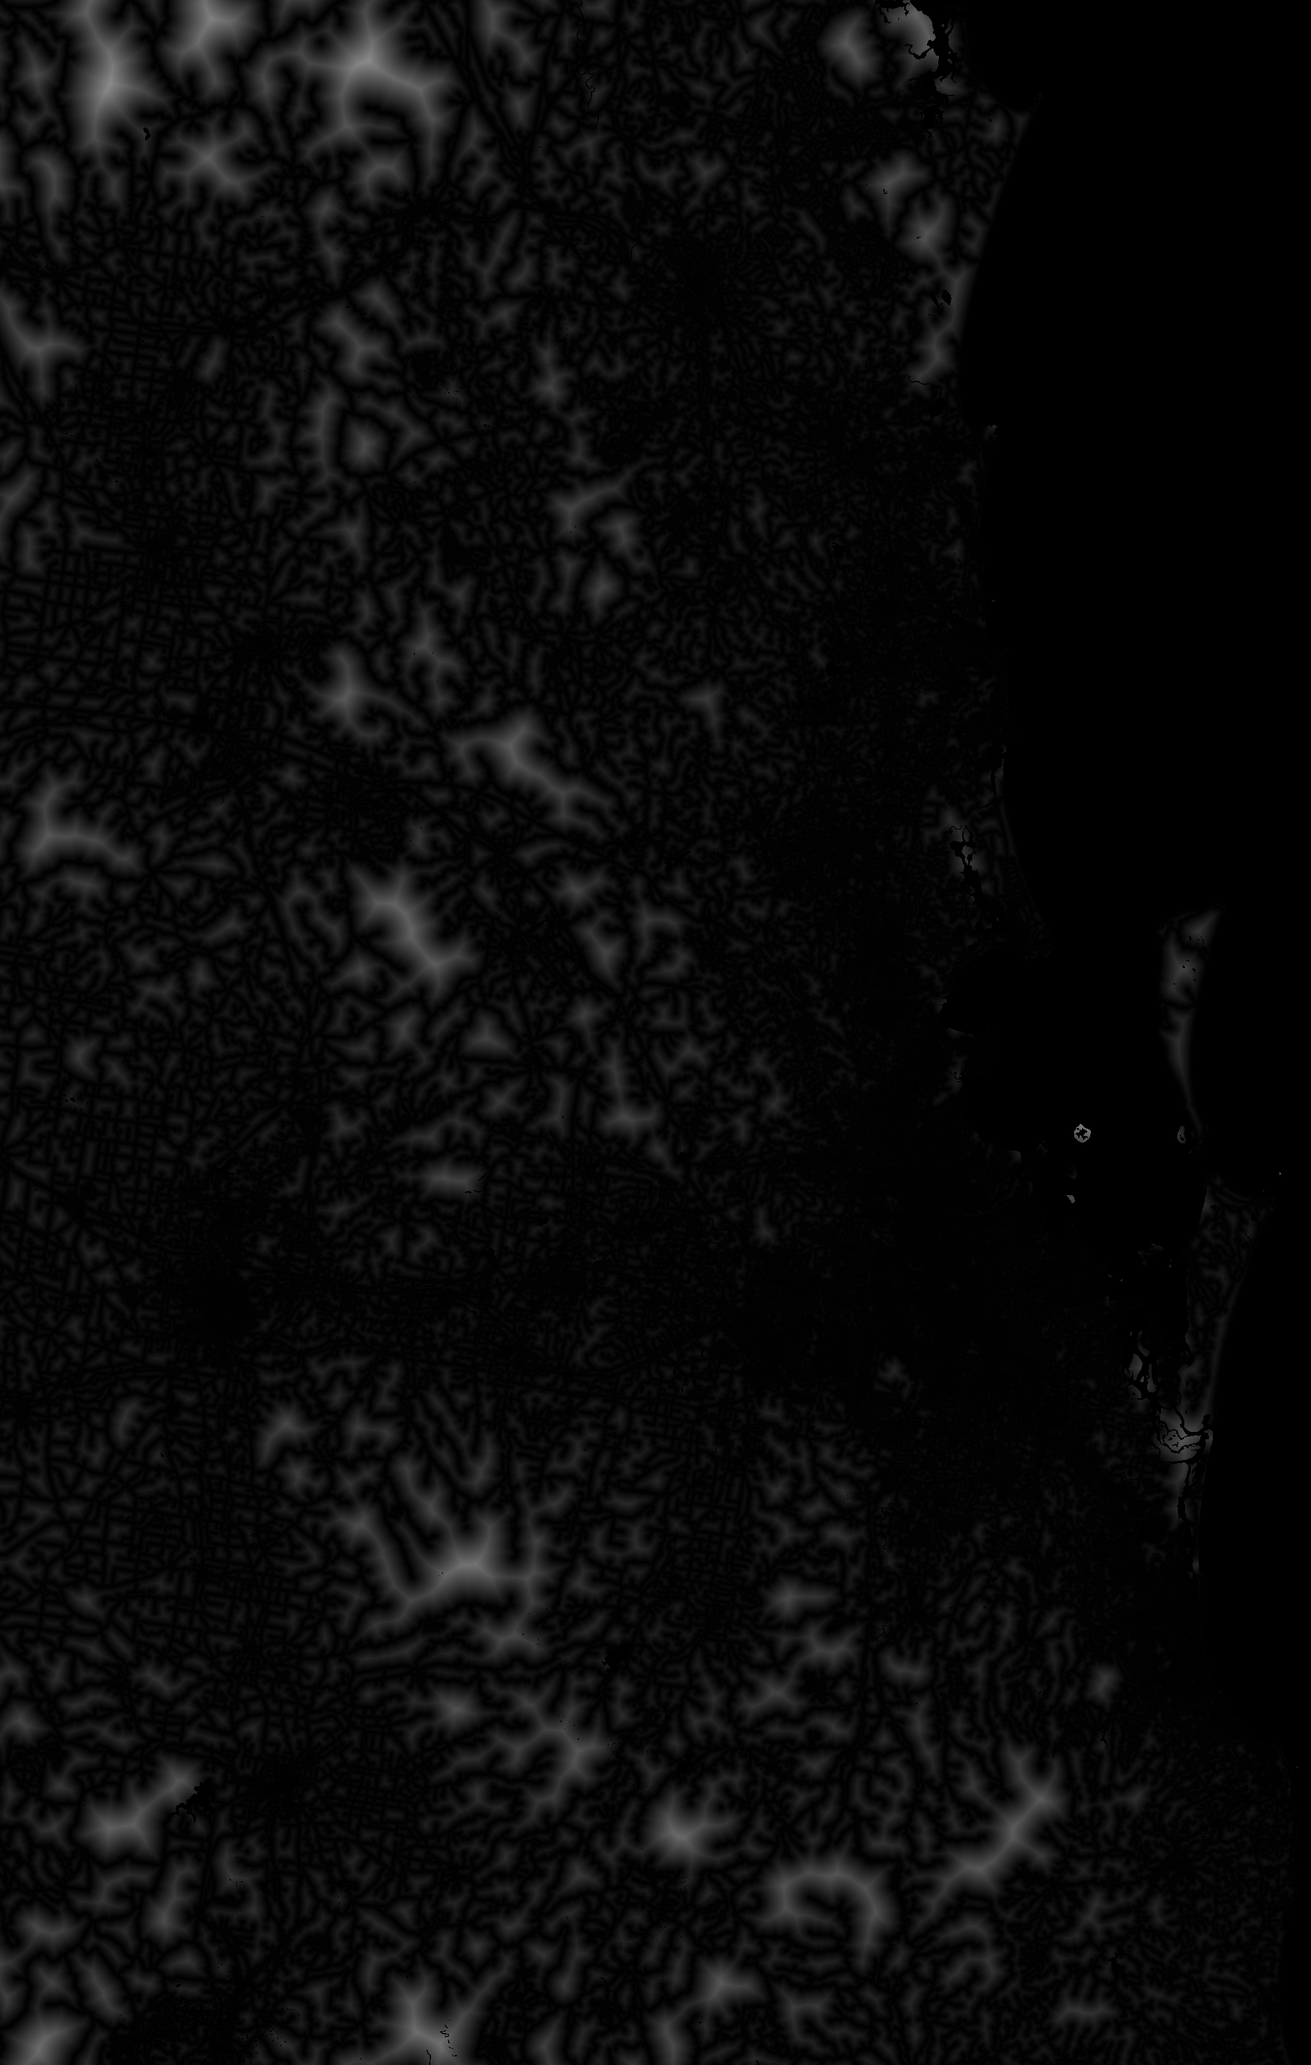
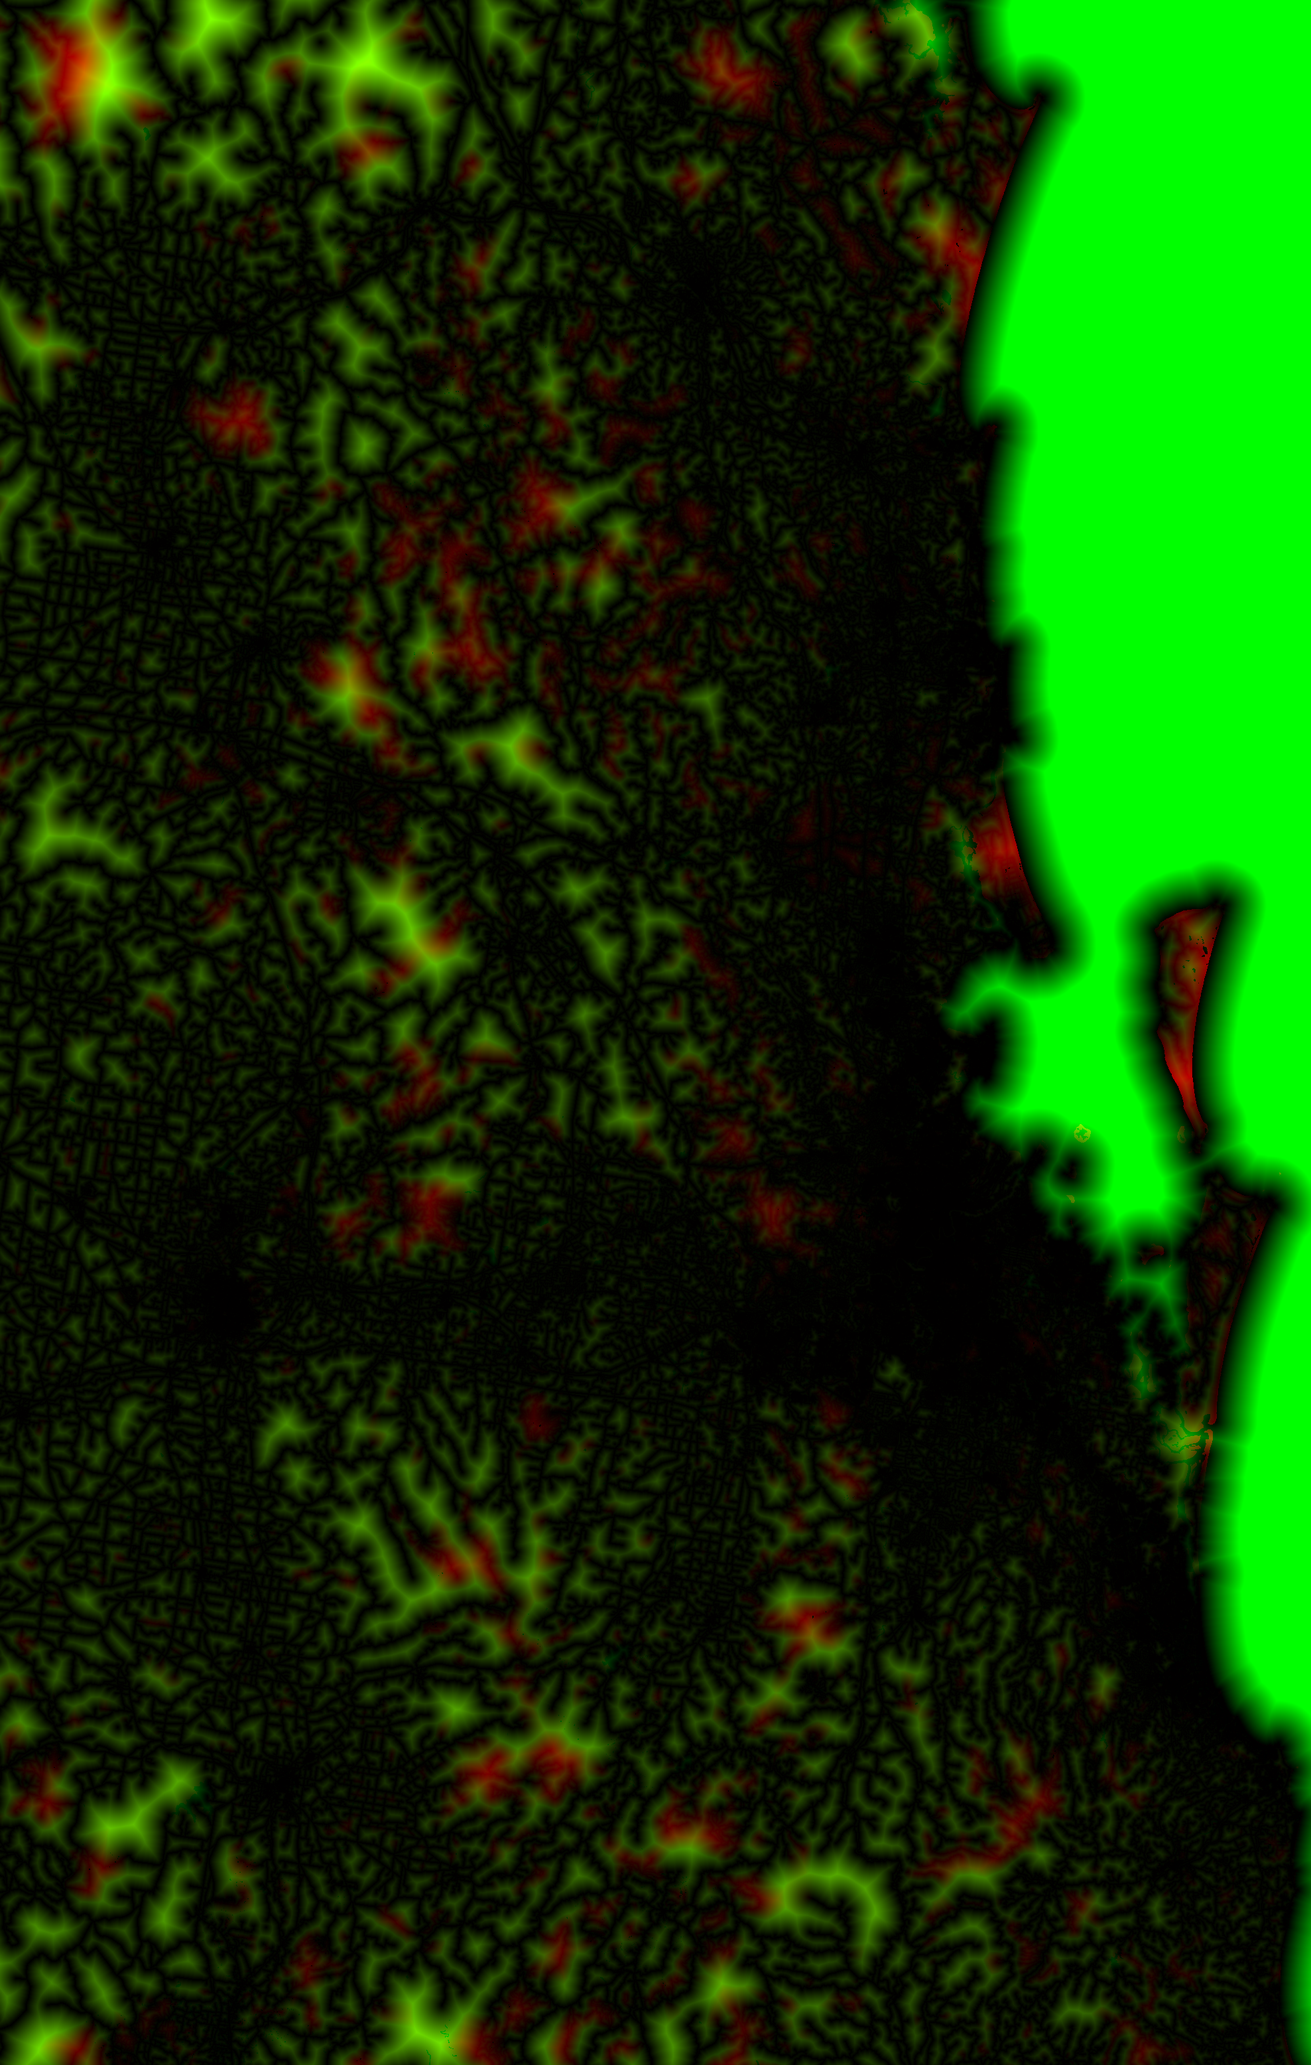
Answers you can actually walk to; shading is now opt-in
The data model was wrong. Tracks and footpaths counted as civilisation, so the winner
was maximising distance from the very things that get you in - a pin in trackless
scrub. Split into two networks: CIVILISATION (roads, buildings, rail, power, runways)
is what the distance is measured to, ACCESS adds tracks and paths and is how you get
there. The image now carries both fields, R and G, and a point only qualifies if it is
within 300 m of a way in.

Better answers as a result: the SEQ maximum went from 7.0 km to 10.5 km, and an hour
from Brisbane from 3.2 km to 4.4 km, because being far from a fire trail is no longer
something the search is trying to achieve.

Also: the shading is OFF by default and built lazily when first asked for, since it is
a whole extra image recomposited on every frame and most of the time you want to read
the map. Google Maps directions to the drop-off, and to the spot itself.

diff --git a/docs/app.js b/docs/app.js
@@ -8,6 +8,12 @@
 const DATA = "data/";
 const FLOOR = 10;   // in step_m units: draw nothing closer than 500 m to something
 
+// How far you are willing to leave a track behind. This is the constraint that stops
+// the answer being a pin in trackless forest: the point has to be within this of a
+// road, fire trail or walking path, even though the DISTANCE being maximised ignores
+// tracks entirely. Without it the winner is wherever the scrub is thickest.
+const MAX_BUSH_M = 300;
+
 // Average progress, not top speed - a car does not hold 100 km/h on the way out of
 // town. Marked as an estimate in the UI because it IS one: the real version asks a
 // routing engine which roads exist and how fast they are.
@@ -21,7 +27,7 @@ const state = {
   mode: "car", mins: 60,
   origin: { lat: -27.4698, lon: 153.0251 }, originName: "Brisbane",
 };
-let meta, grid, map, layers = {};
+let meta, grid, reach, map, layers = {}, overlays = null, field = null;
 
 const $ = (s) => document.querySelector(s);
 const fmtKm = (m) => (m < 950 ? Math.round(m) + " m" : (m / 1000).toFixed(1) + " km");
@@ -49,9 +55,12 @@ async function load() {
   const ctx = c.getContext("2d", { willReadFrequently: true });
   ctx.drawImage(img, 0, 0);
   const rgba = ctx.getImageData(0, 0, meta.width, meta.height).data;
-  grid = new Uint8Array(meta.width * meta.height);
-  for (let i = 0; i < grid.length; i++) grid[i] = rgba[i * 4];  // greyscale: R only
-  return { map: overlayURL("map"), sat: overlayURL("sat") };
+  grid = new Uint8Array(meta.width * meta.height);   // R: metres to civilisation
+  reach = new Uint8Array(meta.width * meta.height);  // G: metres to a way in
+  for (let i = 0; i < grid.length; i++) {
+    grid[i] = rgba[i * 4];
+    reach[i] = rgba[i * 4 + 1];
+  }
 }
 
 /* Colour the field so the map shows WHERE the empty country is, not just one pin.
@@ -186,8 +195,10 @@ function solve() {
   let best = 0, bx = -1, by = -1;
   for (let y = y0; y <= y1; y++) {
     for (let x = x0; x <= x1; x++) {
-      const v = grid[y * meta.width + x];
+      const i = y * meta.width + x;
+      const v = grid[i];
       if (v <= best) continue;                      // cheapest test first
+      if (reach[i] * meta.reach_step_m > MAX_BUSH_M) continue;   // no trackless pins
       if (!land.seen[land.idx(x, y)]) continue;     // no boats
       const ll = toLL(x + 0.5, y + 0.5);
       const dx = (ll[1] - state.origin.lon) * mPerDegLon;
@@ -201,6 +212,7 @@ function solve() {
   const ll = toLL(bx + 0.5, by + 0.5);
   return {
     lat: ll[0], lon: ll[1], dist_m: best * meta.step_m,
+    offtrack_m: reach[by * meta.width + bx] * meta.reach_step_m,
     reachM: reachM, access: walkOut(bx, by),
   };
 }
@@ -258,9 +270,17 @@ function render() {
     "<li>" + m.verb.charAt(0).toUpperCase() + m.verb.slice(1) + " to <b>" +
       a.access.lat.toFixed(4) + ", " + a.access.lon.toFixed(4) +
       "</b>, the last built ground on the way.</li>" +
-    "<li>Then walk the final <b>" + fmtKm(a.dist_m) + "</b>.</li>" +
-    '<li><a target="_blank" rel="noopener" href="https://www.openstreetmap.org/#map=14/' +
-      a.lat.toFixed(4) + "/" + a.lon.toFixed(4) + '">See it on OpenStreetMap</a></li>' +
+    "<li>Then walk about <b>" + fmtKm(a.dist_m) + "</b> - tracks most of the way, " +
+      "the last <b>" + fmtKm(a.offtrack_m) + "</b> off them.</li>" +
+    '<li><a target="_blank" rel="noopener" href="https://www.google.com/maps/dir/?api=1' +
+      "&origin=" + state.origin.lat.toFixed(5) + "," + state.origin.lon.toFixed(5) +
+      "&destination=" + a.access.lat.toFixed(5) + "," + a.access.lon.toFixed(5) +
+      "&travelmode=" + (state.mode === "car" ? "driving"
+        : state.mode === "bike" ? "bicycling" : "walking") +
+      '">Directions to the drop-off</a>' +
+    ' &middot; <a target="_blank" rel="noopener" ' +
+      'href="https://www.google.com/maps/search/?api=1&query=' +
+      a.lat.toFixed(5) + "," + a.lon.toFixed(5) + '">the spot itself</a></li>' +
     "</ul>";
 
   layers.target = L.circleMarker([a.lat, a.lon], {
@@ -274,9 +294,9 @@ function render() {
 
 /* ---------- wiring ---------- */
 (async function main() {
-  const urls = await load();
+  await load();
 
-  map = L.map("map", { zoomControl: true })
+  map = L.map("map", { zoomControl: true, preferCanvas: true })
     .setView([state.origin.lat, state.origin.lon], 8);
   L.tileLayer("https://tile.openstreetmap.org/{z}/{x}/{y}.png", {
     maxZoom: 17,
@@ -290,21 +310,35 @@ function render() {
     "https://server.arcgisonline.com/ArcGIS/rest/services/World_Imagery/" +
     "MapServer/tile/{z}/{y}/{x}",
     { maxZoom: 17, opacity: 0.9, attribution: "Imagery &copy; Esri" });
-
   const bounds = [[meta.south, meta.west], [meta.north, meta.east]];
-  const field = L.imageOverlay(urls.map, bounds,
-    { opacity: 0.85, interactive: false }).addTo(map);
+
+  // The shading is OFF by default and only built when first asked for. It is a whole
+  // extra image the browser recomposites on every pan and zoom frame, and most of the
+  // time you want to read the map, not the field. Building it lazily also keeps it out
+  // of first paint.
+  function palette() { return $("#satellite").checked ? "sat" : "map"; }
+  function syncField() {
+    const want = $("#shade").checked;
+    if (want && !field) {
+      if (!overlays) overlays = {};
+      overlays[palette()] = overlays[palette()] || overlayURL(palette());
+      field = L.imageOverlay(overlays[palette()], bounds,
+        { opacity: 0.85, interactive: false }).addTo(map);
+    } else if (want && field) {
+      overlays[palette()] = overlays[palette()] || overlayURL(palette());
+      field.setUrl(overlays[palette()]);
+      field.bringToFront();
+    } else if (!want && field) {
+      map.removeLayer(field); field = null;
+    }
+  }
 
   $("#satellite").addEventListener("change", (e) => {
-    if (e.target.checked) {
-      sat.addTo(map);
-      field.setUrl(urls.sat);
-    } else {
-      map.removeLayer(sat);
-      field.setUrl(urls.map);
-    }
-    field.bringToFront();
+    if (e.target.checked) sat.addTo(map); else map.removeLayer(sat);
+    syncField();
   });
+  $("#shade").addEventListener("change", syncField);
+
   layers.origin = L.marker([state.origin.lat, state.origin.lon],
     { title: "Start" }).addTo(map);
 

diff --git a/docs/index.html b/docs/index.html
@@ -98,7 +98,8 @@ a{color:var(--accent)}
 
     <fieldset>
       <legend>Map</legend>
-      <label class="check"><input type="checkbox" id="satellite"> Show satellite imagery</label>
+      <label class="check"><input type="checkbox" id="satellite"> Satellite imagery</label>
+      <label class="check"><input type="checkbox" id="shade"> Shade the empty country</label>
     </fieldset>
 
     <fieldset>

diff --git a/build/fonts.py b/build/fonts.py
@@ -13,26 +13,38 @@ TAGLINE = "The middle of nowhere, precisely located."
 # Spanning registers deliberately: condensed grotesque, geometric, monospace,
 # editorial serif, display, humanist.
 FONTS = [
-    ("Oswald", 500, "condensed grotesque - map label"),
-    ("Archivo Narrow", 700, "condensed, workmanlike"),
-    ("Bebas Neue", 400, "display caps, poster"),
-    ("Anton", 400, "heavy display, loud"),
-    ("Space Grotesk", 600, "geometric with quirks"),
-    ("Outfit", 600, "clean geometric, neutral"),
-    ("Sora", 600, "technical geometric"),
-    ("Bricolage Grotesque", 700, "characterful grotesque"),
-    ("JetBrains Mono", 600, "monospace, coordinates"),
-    ("IBM Plex Mono", 600, "monospace, softer"),
-    ("Fraunces", 600, "editorial serif, warm"),
-    ("Instrument Serif", 400, "high-contrast serif"),
-    ("DM Serif Display", 400, "classical display serif"),
-    ("Playfair Display", 700, "elegant, bookish"),
+    # Deliberately spanning genres rather than weights. The first pass was fourteen
+    # respectable sans and serifs, which is one axis explored fourteen times.
+    ("Overpass", 700, "highway signage - literally built from road signs"),
+    ("Big Shoulders Display", 700, "civic signage, condensed"),
+    ("Fjalla One", 400, "ultra condensed, newsstand"),
+    ("Archivo Black", 400, "brutalist slab of a sans"),
+    ("Syne", 700, "art-school grotesque, odd widths"),
+    ("Alfa Slab One", 400, "fairground slab"),
+    ("Rye", 400, "wood type, western"),
+    ("Special Elite", 400, "typewriter, field notes"),
+    ("Courier Prime", 700, "clean typewriter"),
+    ("Silkscreen", 700, "bitmap, GPS unit"),
+    ("Press Start 2P", 400, "8-bit"),
+    ("Orbitron", 700, "techno, instrument panel"),
+    ("Saira Stencil One", 400, "stencil, crate-stamped"),
+    ("Permanent Marker", 400, "marker pen"),
+    ("Amatic SC", 700, "hand-drawn, tall and thin"),
+    ("Cabin Sketch", 700, "sketched, outdoorsy"),
+    ("Bangers", 400, "comic shout"),
+    ("Fredoka", 600, "rounded, friendly"),
+    ("Poiret One", 400, "art deco, fine"),
+    ("Lobster", 400, "script, roadside diner"),
 ]
 
+# Single-weight families 404 if a wght axis is requested, which silently drops the
+# whole stylesheet and renders every row in the fallback face.
+SINGLE_WEIGHT = {"Fjalla One", "Archivo Black", "Alfa Slab One", "Rye",
+                 "Special Elite", "Press Start 2P", "Saira Stencil One",
+                 "Permanent Marker", "Bangers", "Poiret One", "Lobster"}
 CSS_FAMILIES = "&family=".join(
-    f"{n.replace(' ', '+')}:wght@{w}" if n not in
-    ("Bebas Neue", "Anton", "Instrument Serif", "DM Serif Display")
-    else n.replace(" ", "+") for n, w, _ in FONTS)
+    n.replace(" ", "+") if n in SINGLE_WEIGHT
+    else f"{n.replace(' ', '+')}:wght@{w}" for n, w, _ in FONTS)
 
 HTML = """<!doctype html><meta charset="utf-8">
 <link rel="stylesheet" href="https://fonts.googleapis.com/css2?family={fams}&display=block">

diff --git a/build/tiles.py b/build/tiles.py
@@ -5,22 +5,28 @@ field is smooth, so PNG's filters compress it to a size worth shipping whole - a
 point the client needs no server, no tile logic and no API for the measurement half.
 Everything the page does with it is a pixel lookup.
 
-Encoding: one byte per cell, in STEP-metre units. Zero is reserved for "you cannot
-stand here" (ocean, lakes, outside the answered region), so a value of 0 and a distance
-of 0 are never confused - a cell ON a road is 1, not 0.
+Encoding: two channels of one image, so both fields arrive in a single request.
+  R = metres to the nearest CIVILISATION, in STEP units. Zero is reserved for "you
+      cannot stand here" (ocean, lakes, outside the answered region), so a value of 0
+      and a distance of 0 are never confused - a cell ON a road is 1, not 0.
+  G = metres to the nearest ACCESS way (road, track or path) in REACH_STEP units,
+      which is finer because the only question asked of it is "is this within a short
+      walk", and it is clipped rather than scaled - anything past the ceiling is
+      already too far to matter.
 """
 import json, sys, numpy as np
 from PIL import Image
 sys.path.insert(0, "build")
 from raster import Grid
 
-STEP = 50  # metres per unit; 255 * 50 = 12.75 km ceiling
+STEP = 50        # metres per unit; 255 * 50 = 12.75 km ceiling
+REACH_STEP = 25  # metres per unit for the access field; ceiling 6.4 km
 
 
 def main(src="data/seq-dist.npz", out_png="docs/data/seq.png",
          out_json="docs/data/seq.json"):
     r = np.load(src, allow_pickle=True)
-    dist, wet, ans = r["dist"], r["wet"], r["answerable"]
+    dist, wet, ans, reach = r["dist"], r["wet"], r["answerable"], r["reach"]
     g = Grid(tuple(r["bbox"]), float(r["cell"]))
     serve = tuple(r["serve"])
 
@@ -39,15 +45,18 @@ def main(src="data/seq-dist.npz", out_png="docs/data/seq.png",
 
     v = np.clip(np.rint(d / STEP), 1, 255).astype(np.uint8)
     v[~standable] = 0
+    g = np.clip(np.rint(reach[sl] / REACH_STEP), 0, 255).astype(np.uint8)
 
-    Image.fromarray(v, mode="L").save(out_png, optimize=True)
+    rgb = np.dstack([v, g, np.zeros_like(v)])
+    Image.fromarray(rgb, mode="RGB").save(out_png, optimize=True)
 
     meta = {
         "south": serve[0], "west": serve[1], "north": serve[2], "east": serve[3],
         "width": int(v.shape[1]), "height": int(v.shape[0]),
-        "cell_m": float(r["cell"]), "step_m": STEP,
+        "cell_m": float(r["cell"]), "step_m": STEP, "reach_step_m": REACH_STEP,
         "max_m": float(d[standable].max()) if standable.any() else 0.0,
-        "note": "0 = cannot stand there. Otherwise metres = value * step_m.",
+        "note": ("R: 0 = cannot stand there, else metres to civilisation = R * step_m. "
+                 "G: metres to the nearest road, track or path = G * reach_step_m."),
     }
     import os
     json.dump(meta, open(out_json, "w"), indent=2)

diff --git a/build/raster.py b/build/raster.py
@@ -79,6 +79,9 @@ def burn(grid, lon, lat, off, want=None):
 
 # What counts as civilisation, and therefore what the distance is measured TO.
 ANYTHING = {"road", "building", "rail", "power", "aero"}
+# How you get there: civilisation's roads plus tracks and walking paths. A point is
+# only an answer if it is close to one of these - otherwise it is a pin in scrub.
+ACCESS = ANYTHING | {"way"}
 
 
 def water_mask(grid, d):
@@ -151,7 +154,11 @@ def run(features, cell_m, out):
 
     t0 = time.time()
     dist = ndimage.distance_transform_edt(~occ, sampling=cell_m).astype(np.float32)
-    print(f"  distance transform in {time.time()-t0:.0f}s")
+
+    acc = burn(grid, d["lon"], d["lat"], d["off"], np.isin(d["kind"], list(ACCESS)))
+    reach = ndimage.distance_transform_edt(~acc, sampling=cell_m).astype(np.float32)
+    print(f"  two distance transforms in {time.time()-t0:.0f}s; "
+          f"access network covers {acc.sum():,} cells")
 
     # Outside the serve box the distances are buffer-quality only: they exist so the
     # inner box measures correctly, and must never be returned as answers.
@@ -161,14 +168,18 @@ def run(features, cell_m, out):
     answerable[int(np.ceil(y0)):int(y1), int(np.ceil(x0)):int(x1)] = True
     print(f"  serve box is {100*answerable.mean():.0f}% of the buffered grid")
 
-    np.savez_compressed(out, dist=dist, wet=wet, occ=occ, answerable=answerable,
-                        bbox=np.array(bbox), serve=np.array(serve), cell=cell_m)
+    np.savez_compressed(out, dist=dist, reach=reach, wet=wet, occ=occ,
+                        answerable=answerable, bbox=np.array(bbox),
+                        serve=np.array(serve), cell=cell_m)
     print(f"  -> {out}")
 
     # Sanity checks that cost nothing and catch a flipped axis or a broken land mask.
-    for label, field in (("ignoring water", dist),
-                         ("on land", np.where(wet, -1, dist)),
-                         ("on land, in box", np.where(wet | ~answerable, -1, dist))):
+    for label, field in (
+            ("ignoring water", dist),
+            ("on land", np.where(wet, -1, dist)),
+            ("on land, in box", np.where(wet | ~answerable, -1, dist)),
+            ("within 300 m of a track",
+             np.where(wet | ~answerable | (reach > 300), -1, dist))):
         iy, ix = np.unravel_index(np.argmax(field), field.shape)
         lon, lat = grid.to_lonlat(ix, iy)
         print(f"  furthest {label:15} {lat:.5f}, {lon:.5f}  "

diff --git a/build/extract.py b/build/extract.py
@@ -10,22 +10,32 @@ is all the rasteriser needs and is ~20x smaller than keeping the tagged objects.
 """
 import sys, time, numpy as np, osmium
 
-# A way is "anything" if it matches one of these. Deliberately NOT every tag in OSM:
-# a fence or a stream does not make a place less remote, and including them turns the
-# answer into noise.
-ROAD_VALUES = {
+# TWO networks, and the distinction is the whole design.
+#
+# CIVILISATION is what the distance is measured TO. A tarred road or a house means
+# people; that is what you are getting away from.
+#
+# ACCESS is how you GET there. A fire trail or a walking track is not civilisation -
+# nobody feels crowded by a footpath - but it is the difference between a place you can
+# reach and a pin in trackless scrub.
+#
+# The first version had `track` in the civilisation set, which made the answer the
+# middle of a forest with no way in, because being far from every track was part of
+# what it was maximising. Separating them lets the answer be "the end of the remotest
+# fire trail", which is the thing a person actually wants.
+CIVILISATION = {
     "motorway", "trunk", "primary", "secondary", "tertiary", "unclassified",
-    "residential", "living_street", "service", "track", "motorway_link",
-    "trunk_link", "primary_link", "secondary_link", "tertiary_link",
+    "residential", "living_street", "service",
+    "motorway_link", "trunk_link", "primary_link", "secondary_link", "tertiary_link",
 }
-# Deliberately excluded from roads: path, footway, cycleway, bridleway, steps.
-# A walking track through a national park is how you GET to a remote place - counting
-# it as civilisation would rule out every answer worth having.
+ACCESS_ONLY = {"track", "path", "footway", "cycleway", "bridleway", "steps"}
 
 def want(tags):
     hw = tags.get("highway")
-    if hw in ROAD_VALUES:
+    if hw in CIVILISATION:
         return "road"
+    if hw in ACCESS_ONLY:
+        return "way"
     if "building" in tags:
         return "building"
     rw = tags.get("railway")
